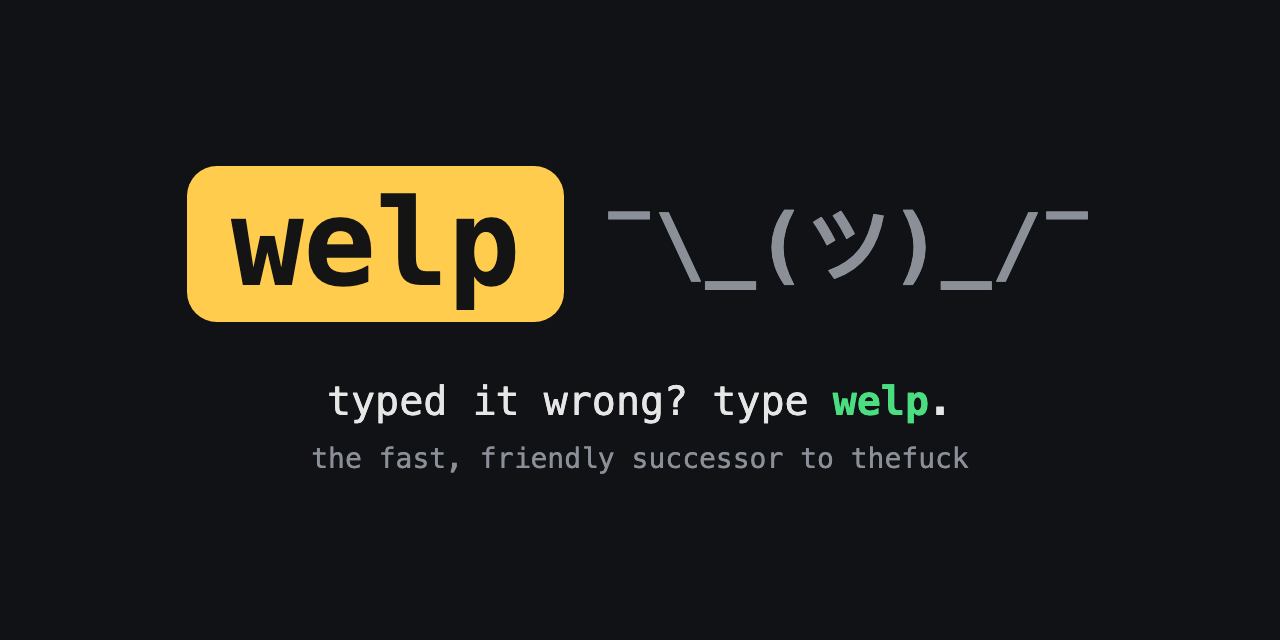
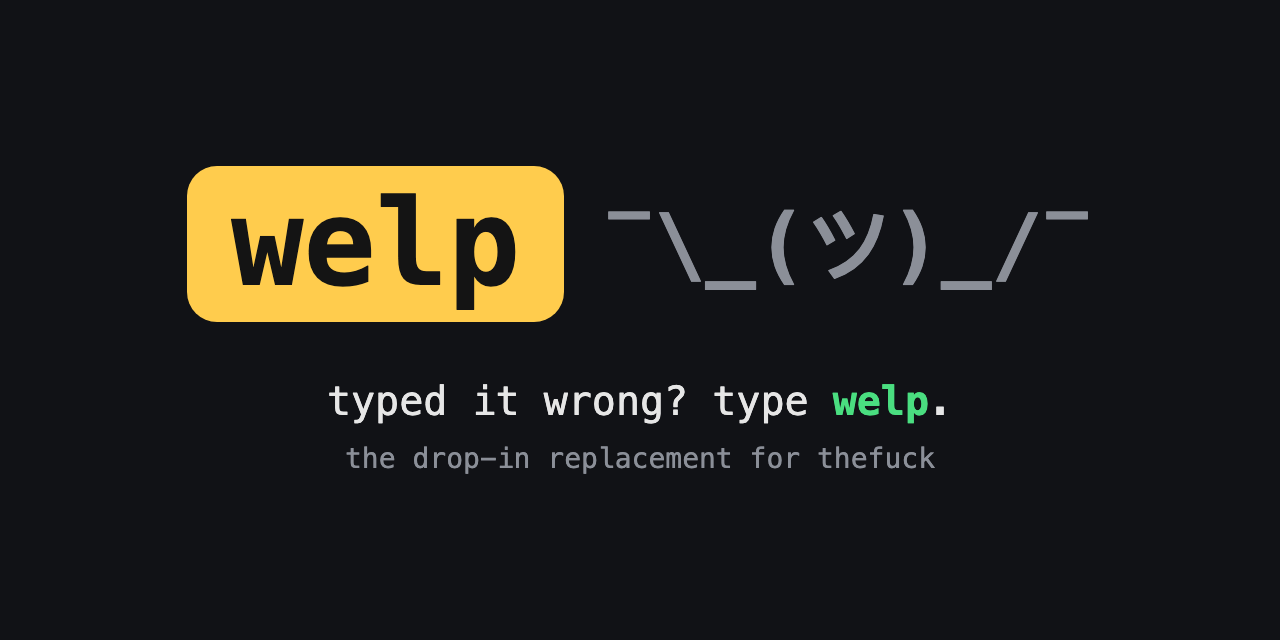
Test every shell end to end in CI, recognize PowerShell's missing-command message, pitch welp as a drop-in replacement
ci/shells.sh drives real interactive bash, zsh, fish and tcsh, and
ci/powershell.ps1 does the same in PowerShell on all three OSes: mistype
a command, run `fuck --yeah`, check the fix ran. PowerShell says a
program "is not recognized", which no_command now treats as missing.

Changed region(s): [[0.25, 0.6875, 0.75, 0.75]]

diff --git a/src/rules/system.rs b/src/rules/system.rs
@@ -72,9 +72,14 @@ pub fn rules() -> Vec<Rule> {
                 let says_missing = output.is_empty()
                     || output.lines().any(|line| {
                         line.contains(&program.to_lowercase())
-                            && ["not found", "unknown command", "no such file or directory"]
-                                .iter()
-                                .any(|text| line.contains(text))
+                            && [
+                                "not found",
+                                "unknown command",
+                                "no such file or directory",
+                                "is not recognized",
+                            ]
+                            .iter()
+                            .any(|text| line.contains(text))
                     });
                 !program.is_empty()
                     && !program.contains('/')
@@ -368,6 +373,19 @@ mod tests {
         assert_eq!(closest_programs("gti", &known)[0], "git");
         assert_eq!(closest_programs("pyhton3", &known), ["python3"]);
         assert!(closest_programs("zzzz", &known).is_empty());
+    }
+
+    #[test]
+    fn powershell_and_cmd_say_not_recognized() {
+        for output in [
+            "gti: The term 'gti' is not recognized as a name of a cmdlet, function, script file, or executable program.",
+            "'gti' is not recognized as an internal or external command,",
+        ] {
+            assert!(
+                crate::rules::rule_matches("no_command", "gti --version", output),
+                "{output}"
+            );
+        }
     }
 
     #[test]

diff --git a/README.md b/README.md
@@ -2,7 +2,7 @@
 
 <p align="center"><b>Typed it wrong? Type <code>welp</code>.</b><br>
 It fixes the command you just messed up, shrugs, and moves on.<br>
-The fast, friendly successor to <a href="https://github.com/nvbn/thefuck">thefuck</a>, with a one-command move from it.</p>
+A drop-in replacement for <a href="https://github.com/nvbn/thefuck">thefuck</a>: every rule, every shell, no Python, and one command to switch.</p>
 
 <p align="center">
 <a href="https://crates.io/crates/welp"><img src="https://img.shields.io/crates/v/welp?color=FFCC4D&labelColor=141414" alt="crates.io"></a>
@@ -33,11 +33,20 @@ thefuck is one of the most-loved command-line tools ever made. It has also had n
 | Moves your setup over | | `welp migrate` keeps your alias and settings |
 | Your own rules | Python files | TOML files, no code needed |
 | Rules | 168 | all 168, same names, plus `did_you_mean`; the 7 that can destroy something are opt-in |
-| Personality | the name | a shrug, three voices, `welp stats` |
+| Personality | a memorable name | a shrug mascot, three voices, milestones, `welp stats` |
 | Shells | bash, zsh, fish, tcsh, PowerShell | bash, zsh, fish, tcsh, PowerShell |
 | Install | `pip` | `brew`, `cargo`, or a download for macOS, Linux and Windows |
 
-Speed measured on a MacBook Pro with `welp fix`; your numbers will vary. Rule names match thefuck's, so your `exclude_rules` keep working.
+Speed measured on a MacBook Pro with `welp fix`; your numbers will vary.
+
+### Everything thefuck does, welp does
+
+- [x] All 168 rules, under the same names, so `exclude_rules` and `rules` from your thefuck settings keep working
+- [x] bash, zsh, fish, tcsh and PowerShell, each tested in CI by mistyping a command and running `fuck --yeah`
+- [x] `fuck`, `fuck --yeah` / `-y`, and picking between fixes with the arrow keys
+- [x] macOS, Linux and Windows
+- [x] Your own rules (TOML here instead of Python)
+- [x] Your settings: `welp migrate` moves `settings.py`, your alias and your shell config over in one go
 
 ## Meet the voice
 
